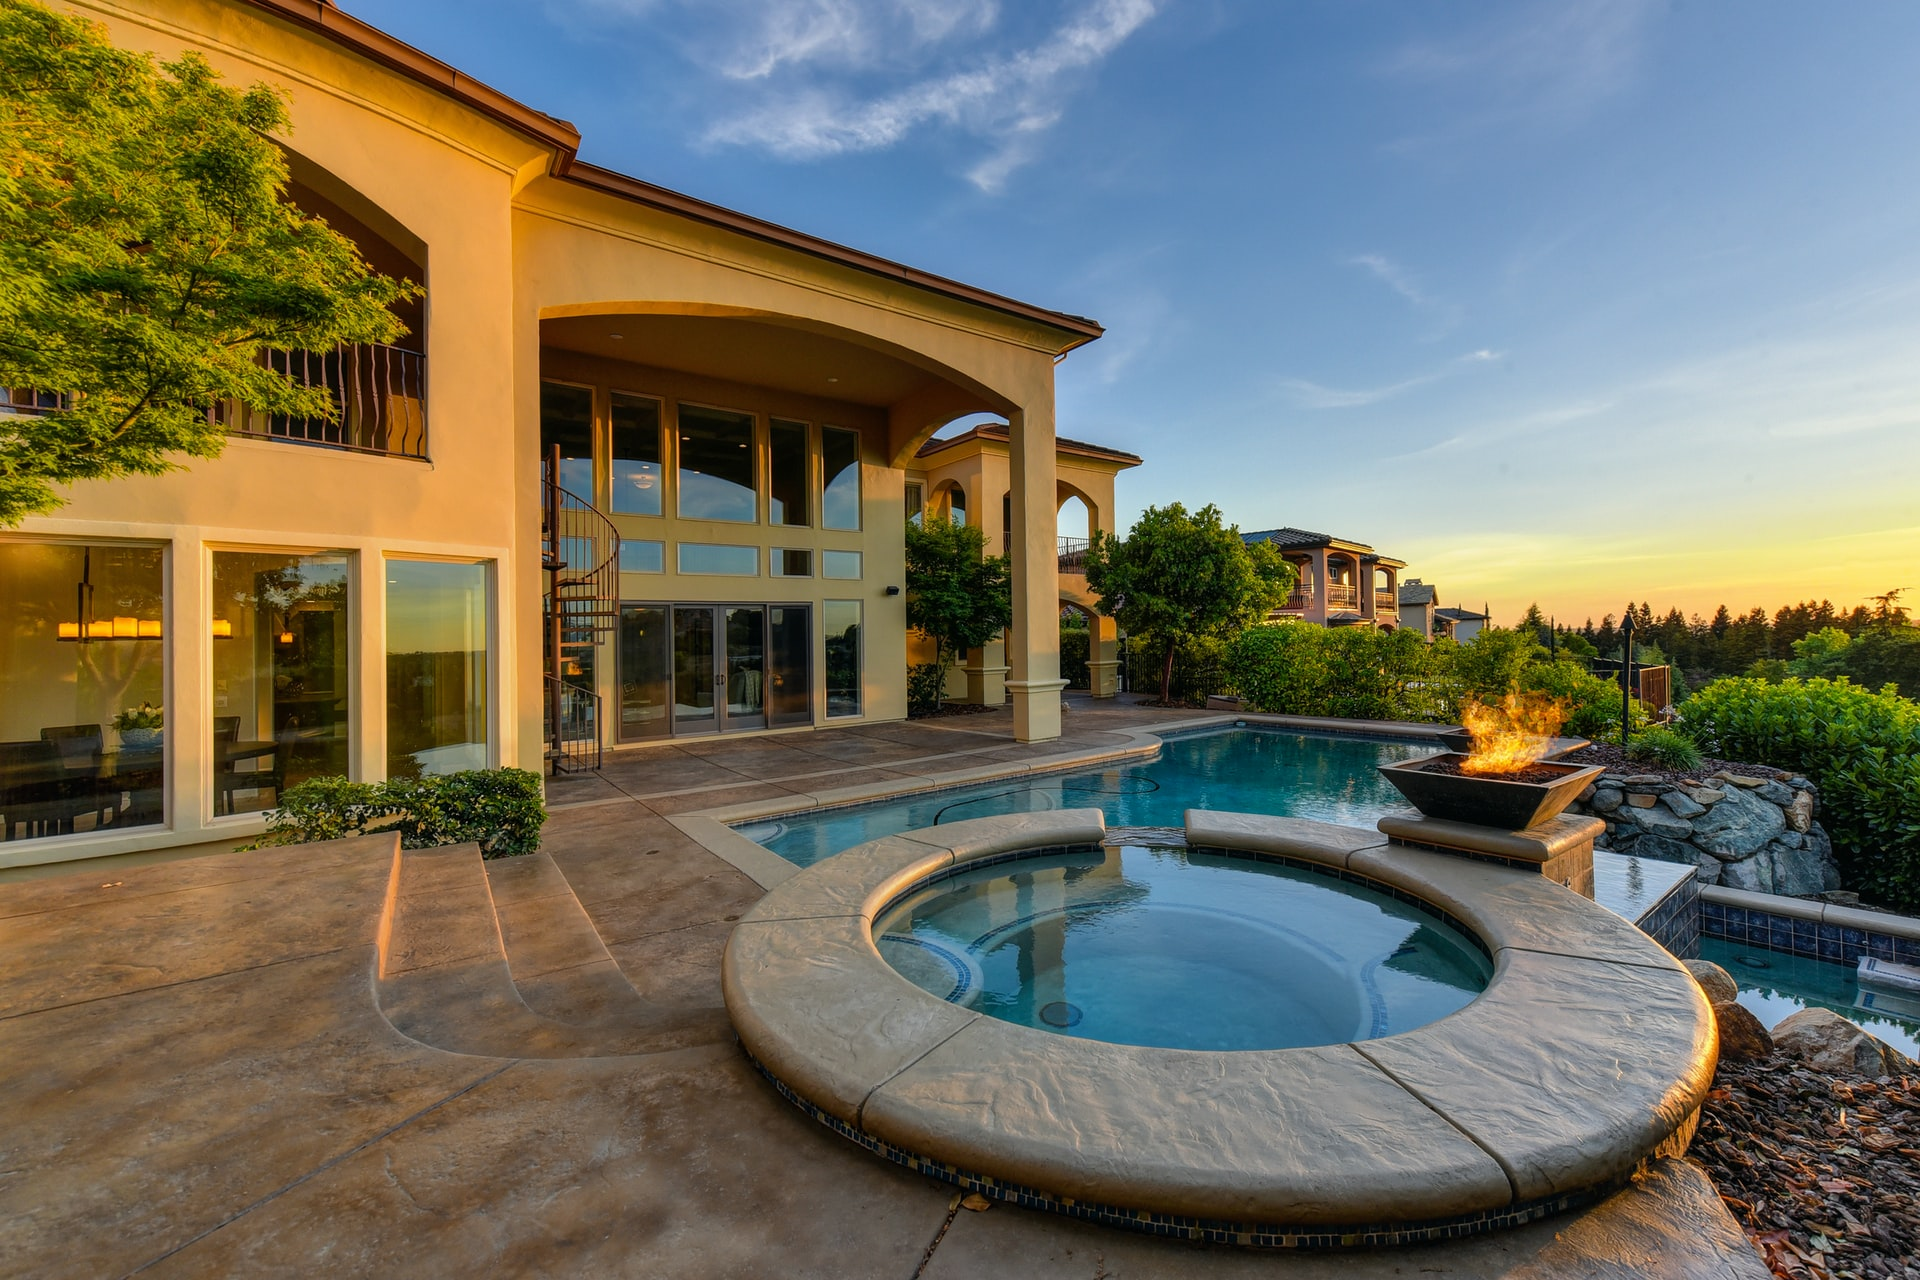
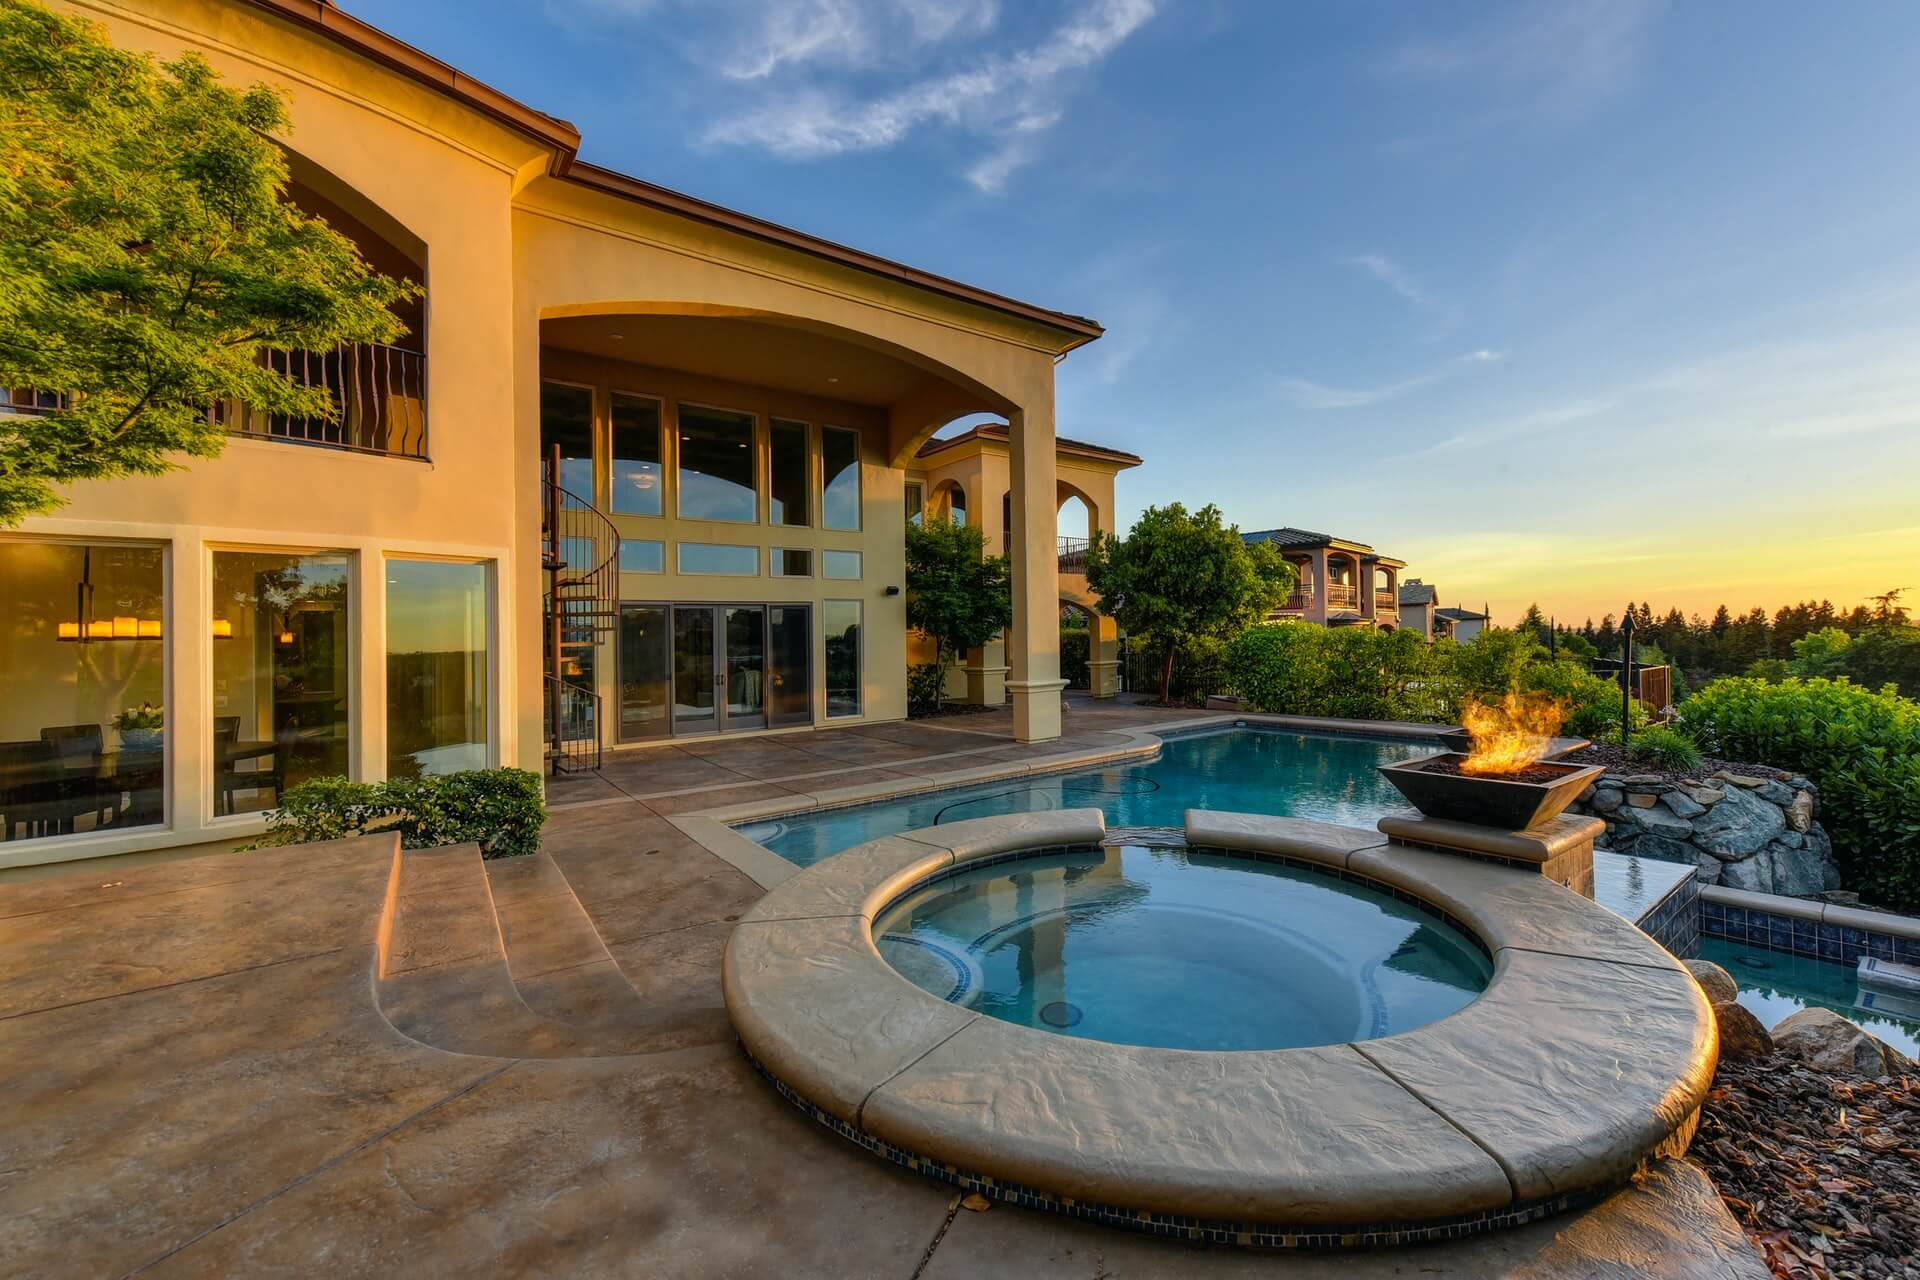
added parish pictures, optimized pictures and  linked to status page

Changed region(s): [[0.7188, 0.5312, 0.75, 0.5625], [0.1562, 0.1875, 0.1875, 0.2188]]

diff --git a/pages/parish/index.vue b/pages/parish/index.vue
@@ -21,7 +21,7 @@
               :to="{ name: 'parish-clarendon' }"
             >
               <v-img
-                :src="img"
+                :src="require('~/assets/images/houses/1.jpg')"
                 class="d-flex image  align-center rounded-lg image-height"
                 gradient="to top right, rgba(0,0,0,.35), rgba(0,0,0,.35)"
               >
@@ -39,7 +39,7 @@
               :to="{ name: 'parish-hanover' }"
             >
               <v-img
-                :src="img"
+                :src="require('~/assets/images/parishes/hanover.jpg')"
                 class="d-flex image  align-center rounded-lg image-height"
                 gradient="to top right, rgba(0,0,0,.35), rgba(0,0,0,.35)"
               >
@@ -57,7 +57,7 @@
               :to="{ name: 'parish-kingston' }"
             >
               <v-img
-                :src="img"
+                :src="require('~/assets/images/parishes/kingston.jpg')"
                 class="d-flex image  align-center rounded-lg image-height"
                 gradient="to top right, rgba(0,0,0,.35), rgba(0,0,0,.35)"
               >
@@ -75,7 +75,7 @@
               :to="{ name: 'parish-manchester' }"
             >
               <v-img
-                :src="img"
+                :src="require('~/assets/images/houses/4.jpg')"
                 class="d-flex image  align-center rounded-lg image-height"
                 gradient="to top right, rgba(0,0,0,.35), rgba(0,0,0,.35)"
               >
@@ -93,7 +93,7 @@
               :to="{ name: 'parish-portland' }"
             >
               <v-img
-                :src="img"
+                :src="require('~/assets/images/parishes/portland.jpg')"
                 class="d-flex image  align-center rounded-lg image-height"
                 gradient="to top right, rgba(0,0,0,.35), rgba(0,0,0,.35)"
               >
@@ -110,7 +110,7 @@
               :to="{ name: 'parish-st-andrew' }"
             >
               <v-img
-                :src="img"
+                :src="require('~/assets/images/parishes/st-andrew.jpg')"
                 class="d-flex image  align-center rounded-lg image-height"
                 gradient="to top right, rgba(0,0,0,.35), rgba(0,0,0,.35)"
               >
@@ -127,7 +127,7 @@
               :to="{ name: 'parish-st-ann' }"
             >
               <v-img
-                :src="img"
+                :src="require('~/assets/images/extra-images/5.jpg')"
                 class="d-flex image  align-center rounded-lg image-height"
                 gradient="to top right, rgba(0,0,0,.35), rgba(0,0,0,.35)"
               >
@@ -144,7 +144,7 @@
               :to="{ name: 'parish-st-catherine' }"
             >
               <v-img
-                :src="img"
+                :src="require('~/assets/images/parishes/st-catherine.jpg')"
                 class="d-flex image  align-center rounded-lg image-height"
                 gradient="to top right, rgba(0,0,0,.35), rgba(0,0,0,.35)"
               >
@@ -161,7 +161,7 @@
               :to="{ name: 'parish-st-elizabeth' }"
             >
               <v-img
-                :src="img"
+                :src="require('~/assets/images/parishes/st-elizabeth.jpg')"
                 class="d-flex image  align-center rounded-lg image-height"
                 gradient="to top right, rgba(0,0,0,.35), rgba(0,0,0,.35)"
               >
@@ -178,7 +178,7 @@
               :to="{ name: 'parish-st-james' }"
             >
               <v-img
-                :src="img"
+                :src="require('~/assets/images/parishes/st-james.jpg')"
                 class="d-flex image  align-center rounded-lg image-height"
                 gradient="to top right, rgba(0,0,0,.35), rgba(0,0,0,.35)"
               >
@@ -195,7 +195,7 @@
               :to="{ name: 'parish-st-mary' }"
             >
               <v-img
-                :src="img"
+                :src="require('~/assets/images/parishes/st-mary.jpg')"
                 class="d-flex image  align-center rounded-lg image-height"
                 gradient="to top right, rgba(0,0,0,.35), rgba(0,0,0,.35)"
               >
@@ -212,7 +212,7 @@
               :to="{ name: 'parish-st-thomas' }"
             >
               <v-img
-                :src="img"
+                :src="require('~/assets/images/extra-images/1.jpg')"
                 class="d-flex image  align-center rounded-lg image-height"
                 gradient="to top right, rgba(0,0,0,.35), rgba(0,0,0,.35)"
               >
@@ -229,7 +229,7 @@
               :to="{ name: 'parish-trelawny' }"
             >
               <v-img
-                :src="img"
+                :src="require('~/assets/images/parishes/trelawny.jpg')"
                 class="d-flex image  align-center rounded-lg image-height"
                 gradient="to top right, rgba(0,0,0,.35), rgba(0,0,0,.35)"
               >
@@ -246,7 +246,7 @@
               :to="{ name: 'parish-westmoreland' }"
             >
               <v-img
-                :src="img"
+                :src="require('~/assets/images/extra-images/6.jpg')"
                 class="d-flex image  align-center rounded-lg image-height"
                 gradient="to top right, rgba(0,0,0,.35), rgba(0,0,0,.35)"
               >

diff --git a/components/TheTrendingSection.vue b/components/TheTrendingSection.vue
@@ -4,7 +4,7 @@
       <v-col cols="12" md="8" sm="6">
         <nuxt-link :to="{ name: 'parish-kingston' }">
           <v-img
-            :src="img"
+            :src="require('~/assets/images/parishes/kingston.jpg')"
             class="d-flex image  align-center rounded-lg image-height"
             gradient="to top right, rgba(0,0,0,.35), rgba(0,0,0,.35)"
           >
@@ -20,7 +20,7 @@
       <v-col cols="12" md="4" sm="6">
         <nuxt-link :to="{ name: 'parish-st-james' }">
           <v-img
-            :src="img"
+            :src="require('~/assets/images/parishes/st-james.jpg')"
             class="d-flex image  align-center rounded-lg image-height"
             gradient="to top right, rgba(0,0,0,.35), rgba(0,0,0,.35)"
           >
@@ -36,7 +36,7 @@
       <v-col cols="12" md="4" sm="6">
         <nuxt-link :to="{ name: 'parish-st-ann' }">
           <v-img
-            :src="img"
+            :src="require('~/assets/images/extra-images/5.jpg')"
             class="d-flex image  align-center rounded-lg image-height"
             gradient="to top right, rgba(0,0,0,.35), rgba(0,0,0,.35)"
           >
@@ -52,7 +52,7 @@
       <v-col cols="12" md="4" sm="6">
         <nuxt-link :to="{ name: 'parish-portland' }">
           <v-img
-            :src="img"
+            :src="require('~/assets/images/parishes/portland.jpg')"
             class="d-flex image  align-center rounded-lg image-height"
             gradient="to top right, rgba(0,0,0,.35), rgba(0,0,0,.35)"
           >
@@ -68,7 +68,7 @@
       <v-col cols="12" md="4" sm="12">
         <nuxt-link :to="{ name: 'parish-manchester' }">
           <v-img
-            :src="img"
+            :src="require('~/assets/images/houses/4.jpg')"
             class="d-flex image  align-center rounded-lg image-height"
             gradient="to top right, rgba(0,0,0,.35), rgba(0,0,0,.35)"
           >

diff --git a/pages/parish/st-catherine.vue b/pages/parish/st-catherine.vue
@@ -44,7 +44,7 @@
         </SectionPadding>
         <SectionPadding v-else class="pt-9">
           <TheRealEstatePropertiesListingFirebase
-            title="Real Estate for Sale"
+            :title="`Real Estate from ${parish}`"
             :properties="properties"
           />
           <div class="d-flex justify-center align-center mt-4">
@@ -92,7 +92,7 @@
 
 <script>
 import { mapGetters, mapActions } from "vuex";
-import img from "~/assets/images/key2.jpg";
+import img from "~/assets/images/parishes/st-catherine.jpg";
 export default {
   fetch() {
     console.log("fetch");

diff --git a/pages/parish/st-elizabeth.vue b/pages/parish/st-elizabeth.vue
@@ -44,7 +44,7 @@
         </SectionPadding>
         <SectionPadding v-else class="pt-9">
           <TheRealEstatePropertiesListingFirebase
-            title="Real Estate for Sale"
+            :title="`Real Estate from ${parish}`"
             :properties="properties"
           />
           <div class="d-flex justify-center align-center mt-4">
@@ -92,7 +92,7 @@
 
 <script>
 import { mapGetters, mapActions } from "vuex";
-import img from "~/assets/images/key2.jpg";
+import img from "~/assets/images/parishes/st-elizabeth.jpg";
 export default {
   fetch() {
     console.log("fetch");

diff --git a/pages/parish/st-andrew.vue b/pages/parish/st-andrew.vue
@@ -44,7 +44,7 @@
         </SectionPadding>
         <SectionPadding v-else class="pt-9">
           <TheRealEstatePropertiesListingFirebase
-            title="Real Estate for Sale"
+            :title="`Real Estate from ${parish}`"
             :properties="properties"
           />
           <div class="d-flex justify-center align-center mt-4">
@@ -92,7 +92,7 @@
 
 <script>
 import { mapGetters, mapActions } from "vuex";
-import img from "~/assets/images/key2.jpg";
+import img from "~/assets/images/parishes/st-andrew.jpg";
 export default {
   fetch() {
     console.log("fetch");

diff --git a/pages/parish/kingston.vue b/pages/parish/kingston.vue
@@ -44,7 +44,7 @@
         </SectionPadding>
         <SectionPadding v-else class="pt-9">
           <TheRealEstatePropertiesListingFirebase
-            title="Real Estate for Sale"
+            :title="`Real Estate from ${parish}`"
             :properties="properties"
           />
           <div class="d-flex justify-center align-center mt-4">
@@ -92,7 +92,7 @@
 
 <script>
 import { mapGetters, mapActions } from "vuex";
-import img from "~/assets/images/key2.jpg";
+import img from "~/assets/images/parishes/kingston.jpg";
 export default {
   fetch() {
     console.log("fetch");

diff --git a/pages/parish/portland.vue b/pages/parish/portland.vue
@@ -44,7 +44,7 @@
         </SectionPadding>
         <SectionPadding v-else class="pt-9">
           <TheRealEstatePropertiesListingFirebase
-            title="Real Estate for Sale"
+            :title="`Real Estate from ${parish}`"
             :properties="properties"
           />
           <div class="d-flex justify-center align-center mt-4">
@@ -92,7 +92,7 @@
 
 <script>
 import { mapGetters, mapActions } from "vuex";
-import img from "~/assets/images/key2.jpg";
+import img from "~/assets/images/parishes/portland.jpg";
 export default {
   fetch() {
     console.log("fetch");

diff --git a/pages/parish/st-james.vue b/pages/parish/st-james.vue
@@ -44,7 +44,7 @@
         </SectionPadding>
         <SectionPadding v-else class="pt-9">
           <TheRealEstatePropertiesListingFirebase
-            title="Real Estate for Sale"
+            :title="`Real Estate from ${parish}`"
             :properties="properties"
           />
           <div class="d-flex justify-center align-center mt-4">
@@ -92,7 +92,7 @@
 
 <script>
 import { mapGetters, mapActions } from "vuex";
-import img from "~/assets/images/key2.jpg";
+import img from "~/assets/images/parishes/st-james.jpg";
 export default {
   fetch() {
     console.log("fetch");

diff --git a/pages/parish/trelawny.vue b/pages/parish/trelawny.vue
@@ -44,7 +44,7 @@
         </SectionPadding>
         <SectionPadding v-else class="pt-9">
           <TheRealEstatePropertiesListingFirebase
-            title="Real Estate for Sale"
+            :title="`Real Estate from ${parish}`"
             :properties="properties"
           />
           <div class="d-flex justify-center align-center mt-4">
@@ -92,7 +92,7 @@
 
 <script>
 import { mapGetters, mapActions } from "vuex";
-import img from "~/assets/images/key2.jpg";
+import img from "~/assets/images/parishes/trelawny.jpg";
 export default {
   fetch() {
     console.log("fetch");

diff --git a/pages/parish/hanover.vue b/pages/parish/hanover.vue
@@ -44,7 +44,7 @@
         </SectionPadding>
         <SectionPadding v-else class="pt-9">
           <TheRealEstatePropertiesListingFirebase
-            title="Real Estate for Sale"
+            :title="`Real Estate from ${parish}`"
             :properties="properties"
           />
           <div class="d-flex justify-center align-center mt-4">
@@ -92,7 +92,7 @@
 
 <script>
 import { mapGetters, mapActions } from "vuex";
-import img from "~/assets/images/key2.jpg";
+import img from "~/assets/images/parishes/hanover.jpg";
 export default {
   fetch() {
     console.log("fetch");

diff --git a/pages/parish/st-mary.vue b/pages/parish/st-mary.vue
@@ -44,7 +44,7 @@
         </SectionPadding>
         <SectionPadding v-else class="pt-9">
           <TheRealEstatePropertiesListingFirebase
-            title="Real Estate for Sale"
+            :title="`Real Estate from ${parish}`"
             :properties="properties"
           />
           <div class="d-flex justify-center align-center mt-4">
@@ -92,7 +92,7 @@
 
 <script>
 import { mapGetters, mapActions } from "vuex";
-import img from "~/assets/images/key2.jpg";
+import img from "~/assets/images/parishes/st-mary.jpg";
 export default {
   fetch() {
     console.log("fetch");

diff --git a/pages/parish/st-ann.vue b/pages/parish/st-ann.vue
@@ -44,7 +44,7 @@
         </SectionPadding>
         <SectionPadding v-else class="pt-9">
           <TheRealEstatePropertiesListingFirebase
-            title="Real Estate for Sale"
+            :title="`Real Estate from ${parish}`"
             :properties="properties"
           />
           <div class="d-flex justify-center align-center mt-4">
@@ -92,7 +92,7 @@
 
 <script>
 import { mapGetters, mapActions } from "vuex";
-import img from "~/assets/images/key2.jpg";
+import img from "~/assets/images/extra-images/5.jpg";
 export default {
   fetch() {
     console.log("fetch");
